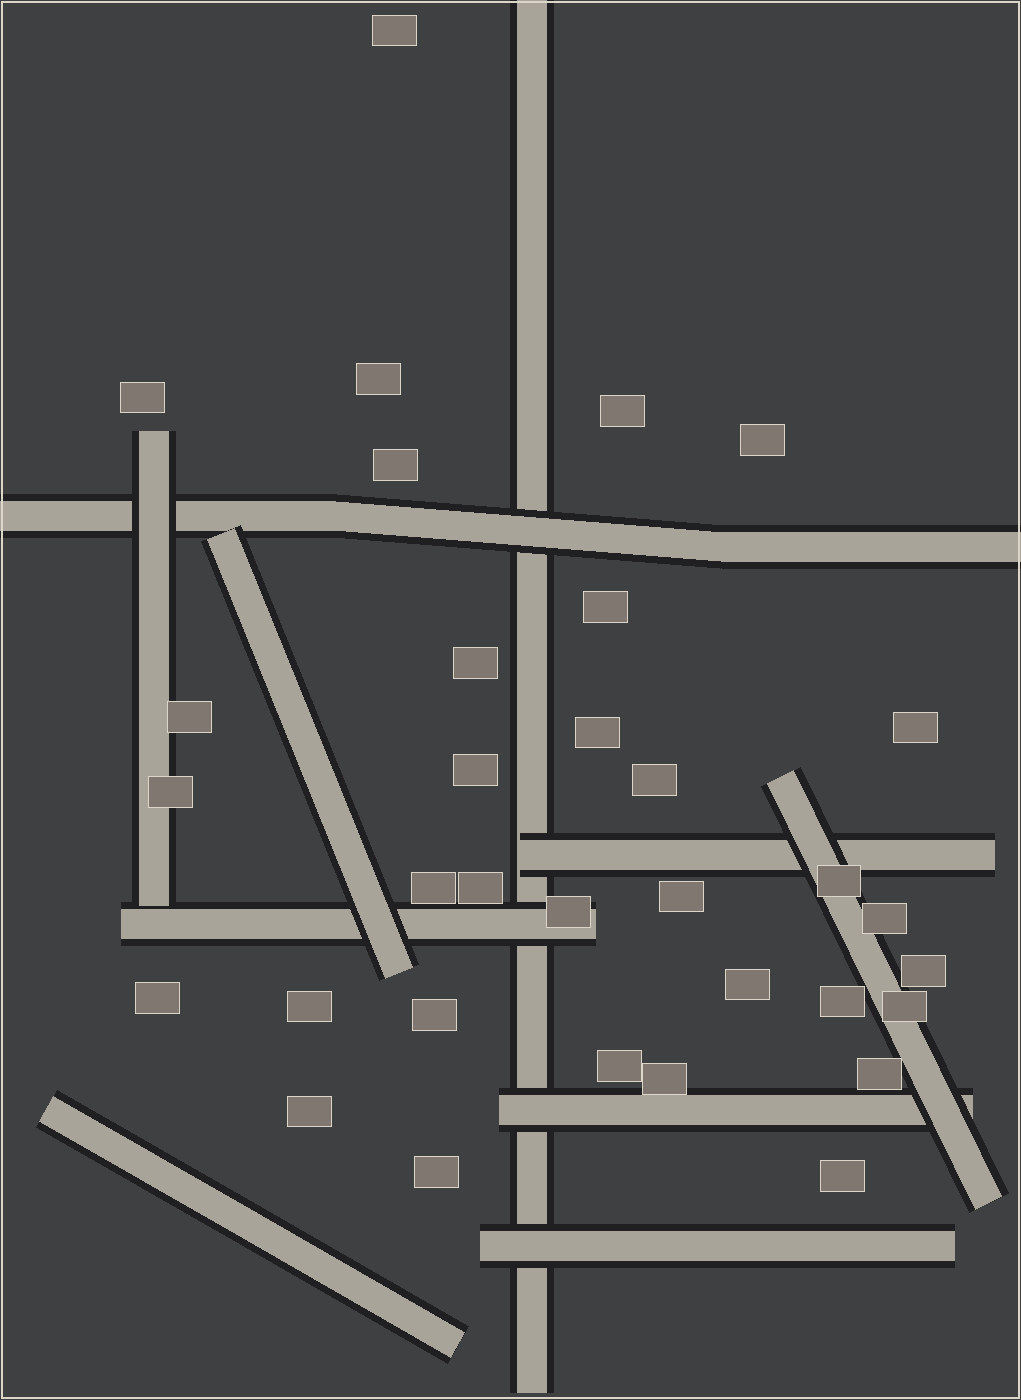
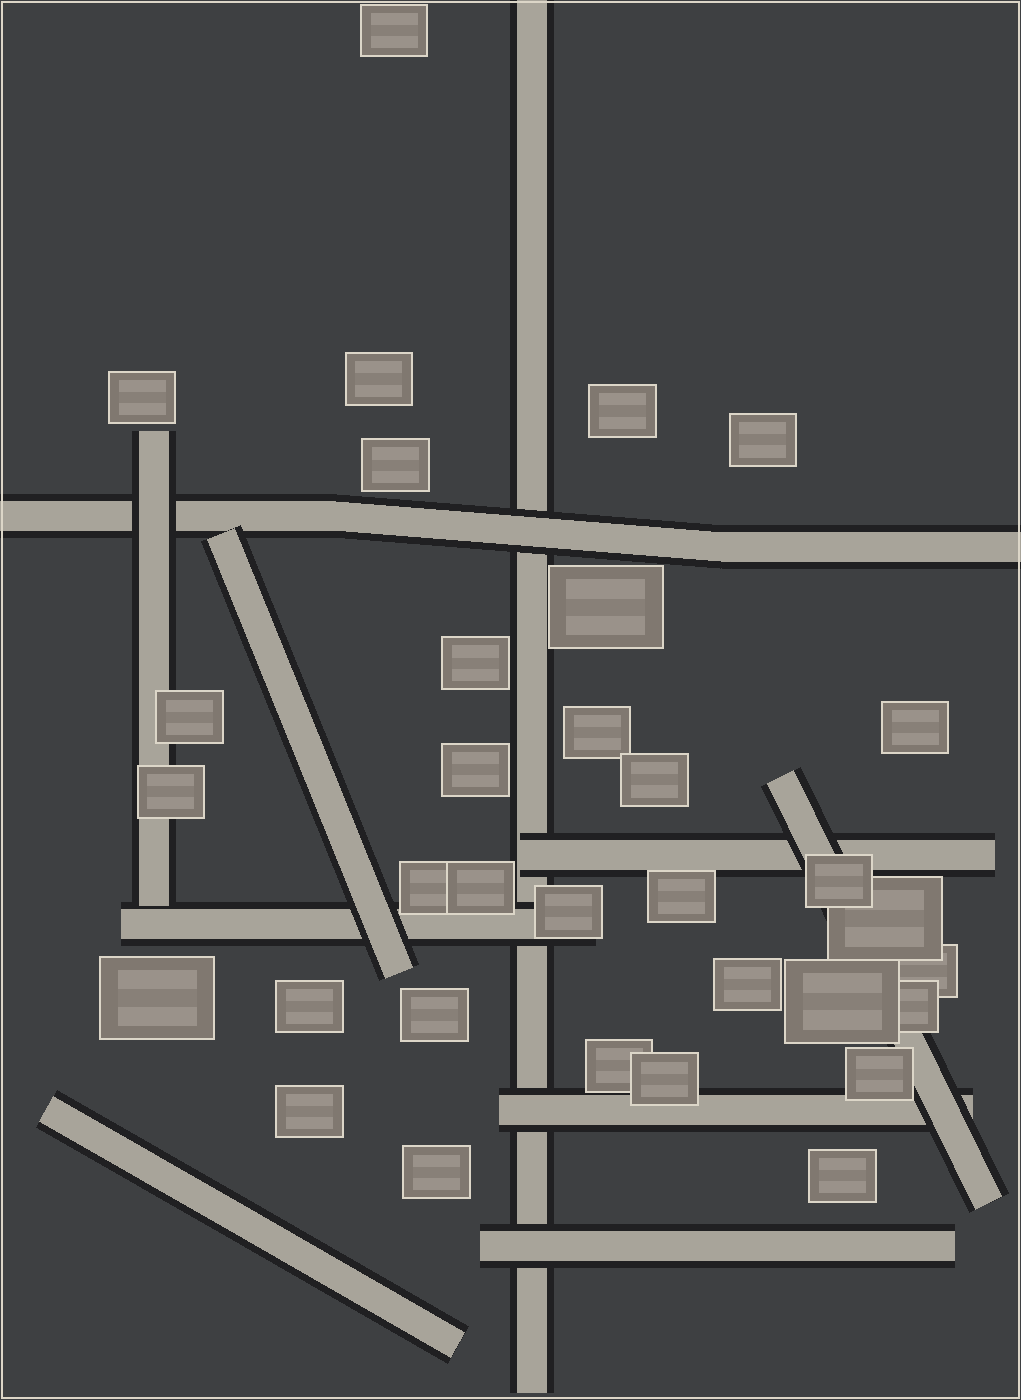
Draw every known building and zoom the map to the current floor.
Each published place is a building on the underlay. Inside a floor band the window zooms to that building's real footprint instead of staying on the whole raid map.

diff --git a/TarkovOverlay/Maps/render_underlays.py b/TarkovOverlay/Maps/render_underlays.py
@@ -422,31 +422,71 @@ def render(spec: dict, path: Path) -> tuple[int, int]:
     for width_m, points in spec.get("roads") or []:
         paint(points, width_m, palette[3], palette[2])
 
-    for area in spec["areas"]:
-        poly = [
-            pix(area["x0"], area["z0"]),
-            pix(area["x1"], area["z0"]),
-            pix(area["x1"], area["z1"]),
-            pix(area["x0"], area["z1"]),
-        ]
-        draw.polygon(poly, fill=palette[5], outline=palette[6])
+    def lighten(color: tuple[int, int, int], amount: int) -> tuple[int, int, int]:
+        return tuple(min(255, channel + amount) for channel in color)
 
-    foot = 12 if spec["id"] in {"factory", "the-lab"} else 26
+    def draw_block(x0: float, z0: float, x1: float, z1: float, fill: tuple[int, int, int]) -> None:
+        xs = sorted((x0, x1))
+        zs = sorted((z0, z1))
+        ring = [pix(xs[0], zs[0]), pix(xs[1], zs[0]), pix(xs[1], zs[1]), pix(xs[0], zs[1])]
+        draw.polygon(ring, fill=fill)
+        span_a, span_b = xs[1] - xs[0], zs[1] - zs[0]
+        if span_a > 8 and span_b > 8:
+            inset_x, inset_z = span_a * 0.16, span_b * 0.16
+            roof = [
+                pix(xs[0] + inset_x, zs[0] + inset_z),
+                pix(xs[1] - inset_x, zs[0] + inset_z),
+                pix(xs[1] - inset_x, zs[1] - inset_z),
+                pix(xs[0] + inset_x, zs[1] - inset_z),
+            ]
+            draw.polygon(roof, fill=lighten(fill, 26))
+            # A spine along the long side so a large footprint reads as a building, not a flat slab.
+            if max(span_a, span_b) > 36:
+                if span_a >= span_b:
+                    mid = (zs[0] + zs[1]) / 2
+                    half = span_b * 0.1
+                    corridor = [pix(xs[0] + inset_x, mid - half), pix(xs[1] - inset_x, mid - half), pix(xs[1] - inset_x, mid + half), pix(xs[0] + inset_x, mid + half)]
+                else:
+                    mid = (xs[0] + xs[1]) / 2
+                    half = span_a * 0.1
+                    corridor = [pix(mid - half, zs[0] + inset_z), pix(mid + half, zs[0] + inset_z), pix(mid + half, zs[1] - inset_z), pix(mid - half, zs[1] - inset_z)]
+                draw.polygon(corridor, fill=lighten(fill, 8))
+        draw.line(ring + [ring[0]], fill=palette[6], width=max(1, round(ppm * 1.4)))
+
+    for area in spec["areas"]:
+        if str(area["name"]).lower() == "mall":
+            plate = lighten(palette[0], 18)
+            ring = [
+                pix(area["x0"], area["z0"]),
+                pix(area["x1"], area["z0"]),
+                pix(area["x1"], area["z1"]),
+                pix(area["x0"], area["z1"]),
+            ]
+            draw.polygon(ring, fill=plate)
+            draw.line(ring + [ring[0]], fill=palette[6], width=max(2, round(ppm * 2)))
+            continue
+        draw_block(area["x0"], area["z0"], area["x1"], area["z1"], palette[5])
+
+    def footprint(name: str) -> tuple[float, float]:
+        lowered = name.lower()
+        if spec["id"] in {"factory", "the-lab"}:
+            return 12, 9
+        if spec["id"] == "interchange":
+            return 16, 12
+        if any(word in lowered for word in ("dorm", "sawmill", "resort", "plant", "chalet", "depot", "warehouse", "bunker", "hotel", "construction", "knight", "bishop", "pawn", "king")):
+            return 34, 24
+        if any(word in lowered for word in ("shack", "tent", "tree", "rock", "nest")):
+            return 12, 10
+        return 20, 15
+
+    blocking = [area for area in spec["areas"] if str(area["name"]).lower() != "mall"]
     for label in spec["labels"]:
         if any(token in label["text"] for token in ("St.", "Ave", "Alley")):
             continue
-        if inside_area(label["x"], label["z"], spec["areas"]):
+        if inside_area(label["x"], label["z"], blocking):
             continue
-        if spec["id"] in {"interchange", "customs", "reserve", "shoreline"}:
-            continue
-        half_x, half_z = foot / 2, foot * 0.35
-        poly = [
-            pix(label["x"] - half_x, label["z"] - half_z),
-            pix(label["x"] + half_x, label["z"] - half_z),
-            pix(label["x"] + half_x, label["z"] + half_z),
-            pix(label["x"] - half_x, label["z"] + half_z),
-        ]
-        draw.polygon(poly, fill=palette[5], outline=palette[6])
+        half_x, half_z = footprint(label["text"])
+        draw_block(label["x"] - half_x, label["z"] - half_z, label["x"] + half_x, label["z"] + half_z, palette[5])
 
     draw.rectangle((1, 1, width - 2, height - 2), outline=palette[6], width=2)
     path.parent.mkdir(parents=True, exist_ok=True)

diff --git a/TarkovOverlay/Windows/MapWindow.xaml.cs b/TarkovOverlay/Windows/MapWindow.xaml.cs
@@ -266,7 +266,11 @@ public partial class MapWindow : Window
             return;
         }
 
-        if (!WorldMath.TryFit(view.MinX, view.MaxX, view.MinZ, view.MaxZ, view.Rotation, w, h, out var fit))
+        var camMinX = view.CameraMinX ?? view.MinX;
+        var camMaxX = view.CameraMaxX ?? view.MaxX;
+        var camMinZ = view.CameraMinZ ?? view.MinZ;
+        var camMaxZ = view.CameraMaxZ ?? view.MaxZ;
+        if (!WorldMath.TryFit(camMinX, camMaxX, camMinZ, camMaxZ, view.Rotation, w, h, out var fit))
             return;
 
         Point ToScreen(double x, double z)
@@ -277,19 +281,31 @@ public partial class MapWindow : Window
 
         if (underlay is not null)
         {
+            var frame = new[]
+            {
+                ToScreen(view.MinX, view.MinZ),
+                ToScreen(view.MaxX, view.MinZ),
+                ToScreen(view.MinX, view.MaxZ),
+                ToScreen(view.MaxX, view.MaxZ)
+            };
+            var left = frame.Min(p => p.X);
+            var top = frame.Min(p => p.Y);
             var img = new System.Windows.Controls.Image
             {
                 Source = underlay,
-                Width = fit.UsedW,
-                Height = fit.UsedH,
+                Width = Math.Max(1, frame.Max(p => p.X) - left),
+                Height = Math.Max(1, frame.Max(p => p.Y) - top),
                 Stretch = Stretch.Fill,
                 IsHitTestVisible = false,
-                SnapsToDevicePixels = true
+                SnapsToDevicePixels = true,
+                Opacity = view.FloorMinX is null ? 1 : 0.42
             };
             RenderOptions.SetBitmapScalingMode(img, BitmapScalingMode.HighQuality);
-            Canvas.SetLeft(img, fit.OriginX);
-            Canvas.SetTop(img, fit.OriginY);
+            Canvas.SetLeft(img, left);
+            Canvas.SetTop(img, top);
             MapCanvas.Children.Add(img);
+            if (view.FloorMinX is double fx0 && view.FloorMaxX is double fx1 && view.FloorMinZ is double fz0 && view.FloorMaxZ is double fz1)
+                DrawFloorPlate(ToScreen, fx0, fx1, fz0, fz1);
         }
 
         MapCanvas.Children.Add(new Rectangle
@@ -368,6 +384,25 @@ public partial class MapWindow : Window
             };
             MapCanvas.Children.Add(arrow);
         }
+    }
+
+    private void DrawFloorPlate(Func<double, double, Point> toScreen, double minX, double maxX, double minZ, double maxZ)
+    {
+        var plate = new Polygon
+        {
+            Points = new PointCollection
+            {
+                toScreen(minX, minZ),
+                toScreen(maxX, minZ),
+                toScreen(maxX, maxZ),
+                toScreen(minX, maxZ)
+            },
+            Fill = FloorFill,
+            Stroke = Brushes.White,
+            StrokeThickness = 2,
+            IsHitTestVisible = false
+        };
+        MapCanvas.Children.Add(plate);
     }
 
     private void DrawScale(MapProjection fit)
@@ -567,6 +602,7 @@ public partial class MapWindow : Window
     private static readonly Brush QuietBrush = Freeze(Color.FromRgb(230, 180, 70));
     private static readonly Brush LabelBg = Freeze(Color.FromArgb(210, 16, 19, 22));
     private static readonly Brush LabelFg = Freeze(Color.FromRgb(236, 232, 214));
+    private static readonly Brush FloorFill = Freeze(Color.FromArgb(150, 196, 186, 160));
     private static readonly Brush FrameStroke = Freeze(Color.FromArgb(50, 255, 255, 255));
     private static readonly FontFamily UiFont = new("Segoe UI");
 

diff --git a/TarkovOverlay/Services/GpsController.cs b/TarkovOverlay/Services/GpsController.cs
@@ -345,11 +345,29 @@ public sealed class GpsController : IDisposable
         var heading = fix is null ? 0 : WorldMath.HeadingDegrees(fix.Rotation);
         if (underlay is not null)
         {
+            double? camMinX = null, camMaxX = null, camMinZ = null, camMaxZ = null;
+            double? floorMinX = null, floorMaxX = null, floorMinZ = null, floorMaxZ = null;
+            if (floor?.X0 is double fx0 && floor.Z0 is double fz0 && floor.X1 is double fx1 && floor.Z1 is double fz1)
+            {
+                floorMinX = Math.Min(fx0, fx1);
+                floorMaxX = Math.Max(fx0, fx1);
+                floorMinZ = Math.Min(fz0, fz1);
+                floorMaxZ = Math.Max(fz0, fz1);
+                var floorPadX = Math.Max(22, (floorMaxX.Value - floorMinX.Value) * 0.55);
+                var floorPadZ = Math.Max(22, (floorMaxZ.Value - floorMinZ.Value) * 0.55);
+                camMinX = Math.Max(underlay.MinX, floorMinX.Value - floorPadX);
+                camMaxX = Math.Min(underlay.MaxX, floorMaxX.Value + floorPadX);
+                camMinZ = Math.Max(underlay.MinZ, floorMinZ.Value - floorPadZ);
+                camMaxZ = Math.Min(underlay.MaxZ, floorMaxZ.Value + floorPadZ);
+            }
+
             return new MapView(
                 title, null, underlay.Rotation,
                 underlay.MinX, underlay.MaxX, underlay.MinZ, underlay.MaxZ,
                 fix?.Position.X, fix?.Position.Z, heading, markers.ToArray(),
-                underlay.ImagePath, underlay.Labels, underlay.CompassDegrees);
+                underlay.ImagePath, underlay.Labels, underlay.CompassDegrees,
+                camMinX, camMaxX, camMinZ, camMaxZ,
+                floorMinX, floorMaxX, floorMinZ, floorMaxZ);
         }
 
         var minX = map.MinX;

diff --git a/TarkovOverlay/Models/GpsModels.cs b/TarkovOverlay/Models/GpsModels.cs
@@ -67,4 +67,12 @@ public sealed record MapView(
     MapMarker[] Markers,
     string? UnderlayImage = null,
     MapLabel[]? Labels = null,
-    double CompassDegrees = double.NaN);
+    double CompassDegrees = double.NaN,
+    double? CameraMinX = null,
+    double? CameraMaxX = null,
+    double? CameraMinZ = null,
+    double? CameraMaxZ = null,
+    double? FloorMinX = null,
+    double? FloorMaxX = null,
+    double? FloorMinZ = null,
+    double? FloorMaxZ = null);

diff --git a/README.ru.md b/README.ru.md
@@ -47,7 +47,7 @@
 - После разбора имени файла скриншот удаляется (`GpsDeleteAfterParse`, по умолчанию включено), чтобы папка не разрасталась. Автоскриншот можно выключить в трее и снимать кадр вручную.
 - Текущая карта берётся из логов игры (те же логи, что и для PvP/PvE/Сезона). Вне рейда стрелка и карта скрыты.
 
-Подложка лежит на публичных рамках карт [tarkov.dev](https://tarkov.dev) (границы и `coordinateRotation` из их данных под лицензией MIT, сверенные с координатами спавнов и выходов того же API). Дороги и тропы проведены между этими ориентирами, плюс вода и контуры зданий, так что на картинке видна дорожная сеть. SVG-карты tarkov.dev и тайлы, сделанные из них, распространяются по CC BY-NC-SA, и авторы запрещают использовать их во внутрирейдовом оверлее, поэтому их здесь нет. Тайлы MapGenie и текстуры карты из самой игры нельзя переупаковывать. Это не официальная карта игры. У Терминала и Лабиринта нет опубликованной геометрии дорог, поэтому там остаётся пустая рамка. Заголовок окна и строка стрелки показывают этаж, когда высота попадает в опубликованный диапазон (например, общаги, 2-й этаж, или бункеры Резерва). Поэтажных планов всех зданий в данных, которые можно положить в репозиторий, нет. Нажатие клавиши скриншота — обычный ввод. Персонаж не двигается, покупки и продажи не совершаются, данные аккаунта не читаются.
+Подложка лежит на публичных рамках карт [tarkov.dev](https://tarkov.dev) (границы и `coordinateRotation` из их данных под лицензией MIT, сверенные с координатами спавнов и выходов того же API). Дороги и тропы проведены между этими ориентирами, плюс вода и контуры зданий, так что на картинке видна дорожная сеть. SVG-карты tarkov.dev и тайлы, сделанные из них, распространяются по CC BY-NC-SA, и авторы запрещают использовать их во внутрирейдовом оверлее, поэтому их здесь нет. Тайлы MapGenie и текстуры карты из самой игры нельзя переупаковывать. Это не официальная карта игры. У Терминала и Лабиринта нет опубликованной геометрии дорог, поэтому там остаётся пустая рамка. Каждое опубликованное место нарисовано зданием. Заголовок окна и строка стрелки показывают этаж, когда высота попадает в его диапазон, и карта приближает контур этого здания. Стены комнат внутри не выдуманы: рисуется контур и те части, для которых есть координаты. Нажатие клавиши скриншота — обычный ввод. Персонаж не двигается, покупки и продажи не совершаются, данные аккаунта не читаются.
 
 ## Как это работает
 

diff --git a/README.md b/README.md
@@ -47,7 +47,7 @@ In a raid the overlay can press the in-game screenshot key (Print Screen by defa
 - After a file name is parsed, that screenshot is deleted (`GpsDeleteAfterParse`, default on) so the folder does not fill up. Turn auto-capture off in the tray if you only want manual screenshots.
 - The current map comes from the game's own log files (the same logs used for PvP/PvE/Season). Outside a raid the arrow and the map hide.
 
-The underlay sits on the public [tarkov.dev](https://tarkov.dev) map frames (bounds and `coordinateRotation` from their MIT-licensed map data, checked against that API's spawn and extract coordinates). Roads and paths are drawn between those published landmarks, with water and building footprints, so the picture shows the road network. The tarkov.dev SVG maps, and the tiles made from them, are CC BY-NC-SA and their authors forbid using them in an in-raid overlay, so they are not included. MapGenie tiles and the game's own map textures are not licensed for redistribution. This is not an official game map. Terminal and Labyrinth have no published road geometry, so those two stay a plain frame. The window title and the arrow line add the floor when your height is inside a published floor band (for example Dorms 2nd floor, or Reserve bunkers). Interior floor plans of every building are not in the data we can ship. Pressing the screenshot key is ordinary input. It does not move your character, buy or sell items, or read account data.
+The underlay sits on the public [tarkov.dev](https://tarkov.dev) map frames (bounds and `coordinateRotation` from their MIT-licensed map data, checked against that API's spawn and extract coordinates). Roads and paths are drawn between those published landmarks, with water and building footprints, so the picture shows the road network. The tarkov.dev SVG maps, and the tiles made from them, are CC BY-NC-SA and their authors forbid using them in an in-raid overlay, so they are not included. MapGenie tiles and the game's own map textures are not licensed for redistribution. This is not an official game map. Terminal and Labyrinth have no published road geometry, so those two stay a plain frame. Every published place is drawn as a building on that frame. The window title and the arrow line add the floor when your height is inside a published floor band, and the map zooms to that building's outline. Room walls inside a building are not invented: only the footprint and the named parts that have coordinates are drawn. Pressing the screenshot key is ordinary input. It does not move your character, buy or sell items, or read account data.
 
 ## How it works
 
